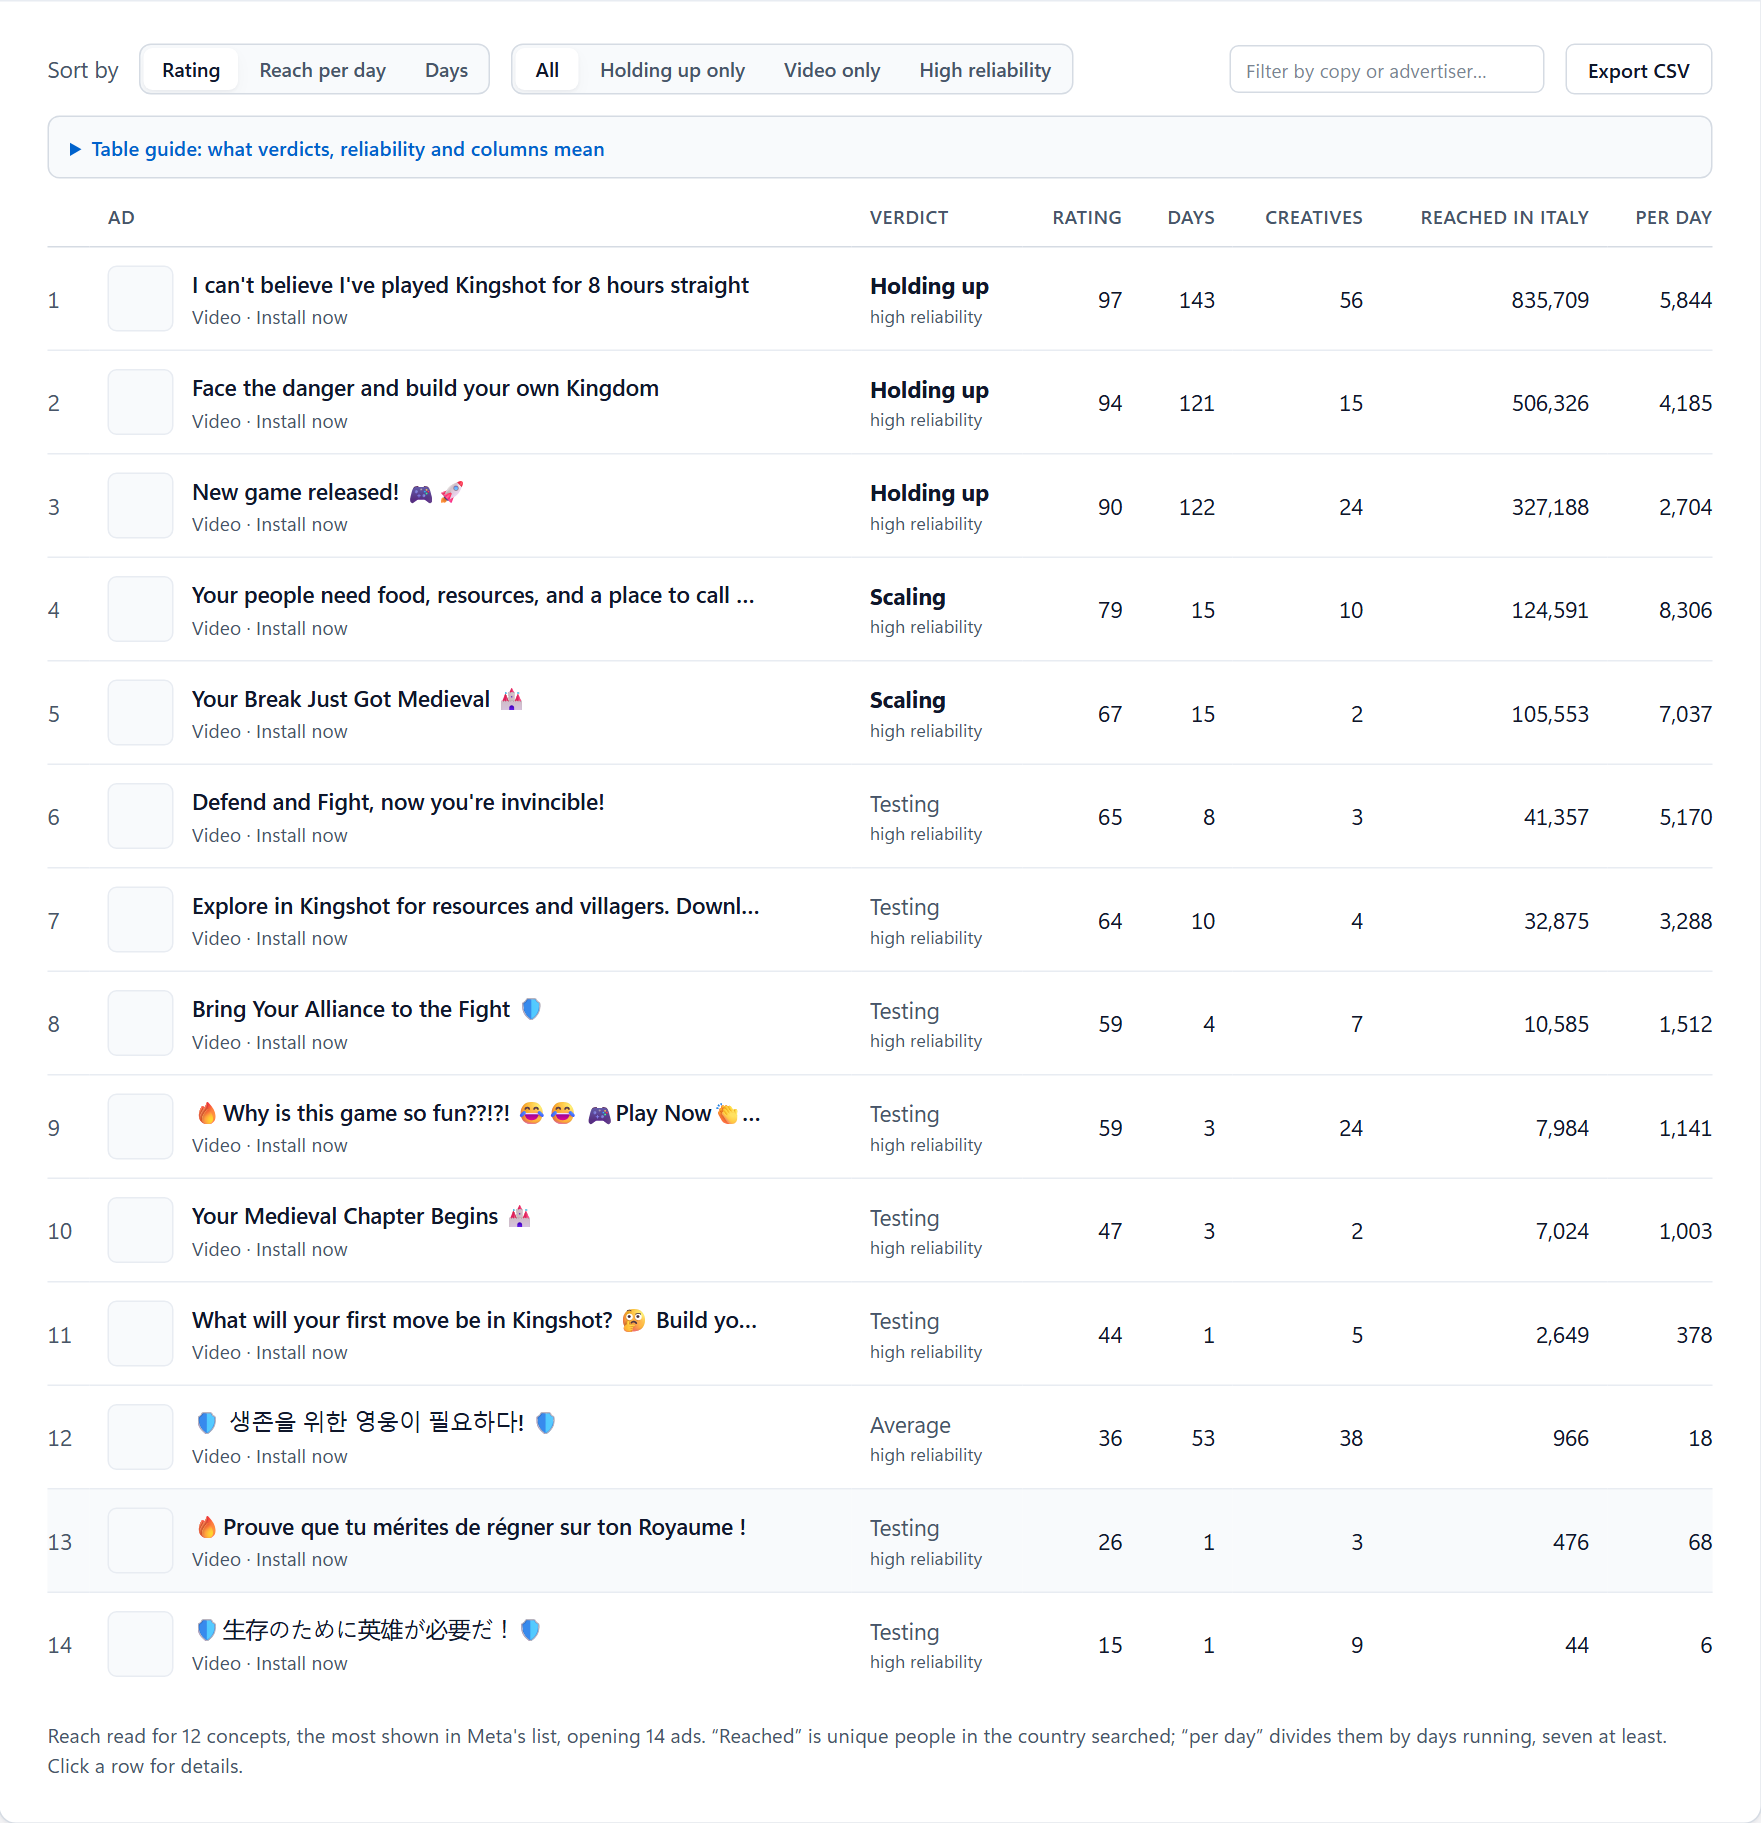
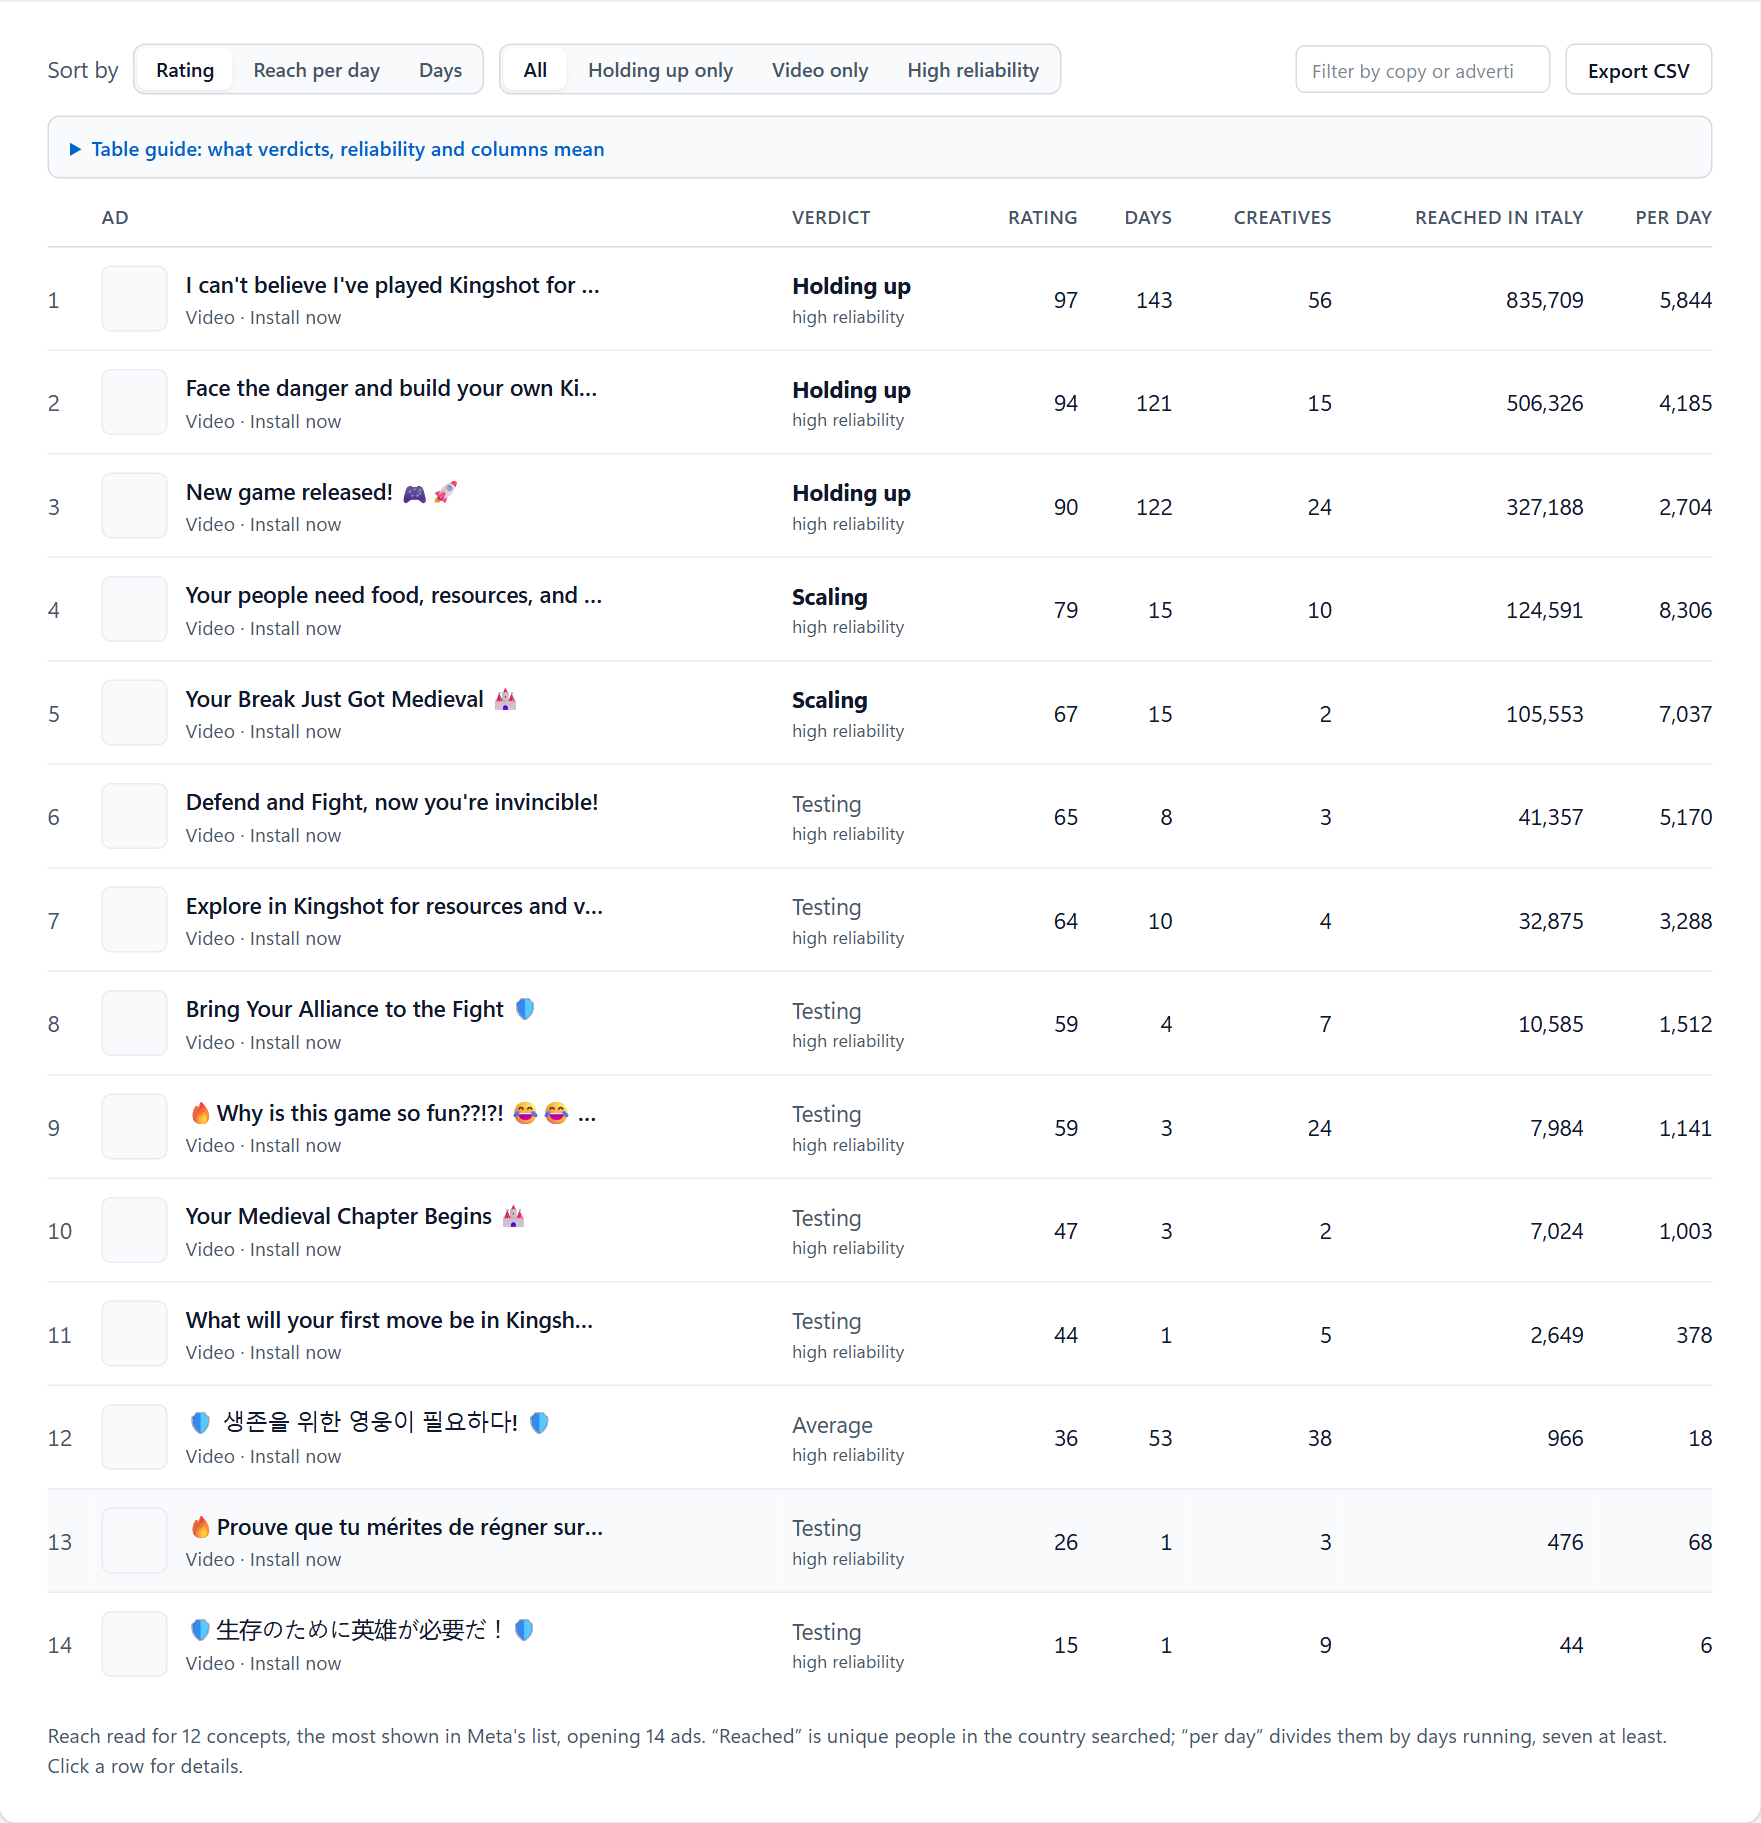
Link and web: clean config fallback, venv MCP paths, table/mobile CSS polish and all 422 tests green

diff --git a/src/ad_library_insights/web/static/app.css b/src/ad_library_insights/web/static/app.css
@@ -209,21 +209,24 @@ table.cmp td.num { font-variant-numeric: tabular-nums; }
 .rows li span:first-child { min-width: 0; overflow: hidden; text-overflow: ellipsis; white-space: nowrap; }
 
 /* ads table */
+.ads th, .ads td { padding-left: 8px; padding-right: 8px; }
+.ads th:first-child, .ads td:first-child { padding-left: 0; }
+.ads th:last-child, .ads td:last-child { padding-right: 0; }
 .ads td.rank { color: var(--muted); width: 28px; font-variant-numeric: tabular-nums; }
 .adcell { display: flex; align-items: center; gap: 12px; min-width: 0; }
 .thumb { width: 44px; height: 44px; border-radius: 6px; object-fit: cover; flex: none; background: var(--sunken); border: 1px solid var(--line-soft); }
 .adtext { min-width: 0; }
-.adtext div { overflow: hidden; text-overflow: ellipsis; white-space: nowrap; max-width: 380px; font-weight: 530; }
-.ads.mixed .adtext div, .ads.mixed .adtext small { max-width: 262px; }
-.adtext small { color: var(--muted); font-size: .86rem; display: block; overflow: hidden; text-overflow: ellipsis; white-space: nowrap; max-width: 400px; }
+.adtext div { overflow: hidden; text-overflow: ellipsis; white-space: nowrap; max-width: 280px; font-weight: 530; }
+.ads.mixed .adtext div, .ads.mixed .adtext small { max-width: 240px; }
+.adtext small { color: var(--muted); font-size: .86rem; display: block; overflow: hidden; text-overflow: ellipsis; white-space: nowrap; max-width: 300px; }
 .ads td.tier, .ads td.fmt { white-space: nowrap; }
 .v-scaling, .v-holding { font-weight: 650; }
 .v-review { color: var(--warn); font-weight: 650; }
 .v-testing, .v-average, .v-ended { color: var(--muted); }
 .rel { display: block; color: var(--muted); font-size: .8rem; }
-.sortbar { display: flex; align-items: center; gap: 10px 14px; margin-bottom: 14px; color: var(--muted); flex-wrap: wrap; }
+.sortbar { display: flex; align-items: center; gap: 8px 10px; margin-bottom: 14px; color: var(--muted); flex-wrap: wrap; }
 .sort-spacer { flex: 1; }
-.tbl-search { height: 32px; padding: 0 10px; border: 1px solid var(--line); border-radius: 6px; background: var(--surface); color: var(--text); font-size: .86rem; width: 210px; }
+.tbl-search { height: 32px; padding: 0 10px; border: 1px solid var(--line); border-radius: 6px; background: var(--surface); color: var(--text); font-size: .86rem; width: 170px; }
 .table-legend { margin-bottom: 16px; background: var(--sunken); border: 1px solid var(--line); border-radius: 8px; padding: 10px 14px; }
 .table-legend summary { cursor: pointer; font-size: .9rem; font-weight: 640; color: var(--accent); outline: none; }
 .leg-grid { display: grid; grid-template-columns: repeat(3, minmax(0, 1fr)); gap: 16px; margin-top: 12px; padding-top: 12px; border-top: 1px solid var(--line-soft); font-size: .86rem; }
@@ -239,7 +242,7 @@ table.cmp td.num { font-variant-numeric: tabular-nums; }
 .tut-tabs button[aria-selected="true"] { background: var(--surface); color: var(--accent); font-weight: 650; box-shadow: var(--shadow-sm); }
 .tut-intro { margin-top: 14px; padding: 12px 16px; background: var(--accent-wash); border: 1px solid var(--accent-border); border-radius: 8px; font-size: .9rem; color: var(--text); line-height: 1.48; }
 .tut-shot { margin-top: 12px; padding: 12px; background: var(--sunken); border: 1px solid var(--line); border-radius: 8px; }
-.tut-shot img { display: block; width: 100%; max-height: 290px; object-fit: cover; object-position: top center; border: 1px solid var(--line-soft); border-radius: 6px; background: var(--surface); }
+.tut-shot img { display: block; width: 100%; max-height: 210px; object-fit: contain; object-position: top center; border: 1px solid var(--line-soft); border-radius: 6px; background: var(--surface); }
 .tut-shot-pair { display: grid; grid-template-columns: 1.15fr .85fr; gap: 10px; }
 .tut-shot figcaption { margin-top: 8px; font-size: .81rem; color: var(--muted); font-weight: 540; line-height: 1.4; }
 .tut-cards { display: grid; grid-template-columns: 1fr 1fr; gap: 12px; margin-top: 14px; }
@@ -360,7 +363,7 @@ table.cmp td.num { font-variant-numeric: tabular-nums; }
 .vis-pill { font-size: .76rem; font-weight: 640; padding: 2px 8px; border-radius: 5px; }
 .vis-pill.ok { background: var(--ok-wash); color: var(--ok); }
 .vis-score { display: flex; align-items: baseline; justify-content: space-between; gap: 8px; }
-.vis-score strong { font-size: 1.65rem; font-weight: 700; letter-spacing: -.02em; font-variant-numeric: tabular-nums; }
+.vis-score strong { font-size: 1.65rem; font-weight: 700; letter-spacing: -.02em; font-variant-numeric: tabular-nums; white-space: nowrap; }
 .vis-score small { font-size: .85rem; font-weight: 500; color: var(--muted); }
 .vis-parts { display: flex; justify-content: space-between; gap: 8px; font-size: .8rem; color: var(--muted); margin-top: 6px; }
 .vis-lenses { display: grid; grid-template-columns: 1fr 1fr; gap: 8px; }
@@ -408,7 +411,7 @@ table.cmp td.num { font-variant-numeric: tabular-nums; }
 .way-label { font-size: .85rem; color: var(--muted); font-weight: 560; }
 .way-how { margin-top: 16px; }
 .files { margin: 14px 0 0; padding-left: 18px; font-family: Consolas, "Cascadia Mono", ui-monospace, monospace; font-size: .87rem; overflow-wrap: anywhere; }
-.how-step { color: var(--accent); font-size: .82rem; font-weight: 650; text-transform: uppercase; letter-spacing: .04em; }
+.how-step { color: var(--accent); font-size: .82rem; font-weight: 650; letter-spacing: .02em; }
 .how-title { margin-top: 4px; }
 
 @media (max-width: 960px) {

diff --git a/src/ad_library_insights/web/static/app.js b/src/ad_library_insights/web/static/app.js
@@ -218,7 +218,7 @@ function levelVisual(level) {
   }
   const { p, c, margin, lowCut, highCut, round1, roas } = simNumbers();
   return `<div class="lvl-vis">
-    <div class="vis-top"><span class="vis-title">${esc(t('lv.v3.badge'))}</span><button class="linklike" data-action="project" style="font-size:.78rem">${esc(t('lv.v3.sim.edit'))}</button></div>
+    <div class="vis-top"><span class="vis-title">${esc(t('lv.v3.badge'))}</span><button class="linklike" data-action="lv-project" style="font-size:.78rem">${esc(t('lv.v3.sim.edit'))}</button></div>
     <div class="sim-inputs">
       <label class="sim-field"><span>${esc(t('lv.v3.sim.price'))}</span><input type="number" min="1" step="1" data-sim="price" value="${esc(p)}"></label>
       <label class="sim-field"><span>${esc(t('lv.v3.sim.cost'))}</span><input type="number" min="0" step="1" data-sim="cost" value="${esc(c)}"></label>
@@ -328,8 +328,8 @@ function renderWay() {
     <details class="lvl-details multi-cli">
       <summary>${esc(t('way.multi.title'))}</summary>
       <div class="multi-grid">
-        <div class="multi-box"><strong>${esc(t('way.multi.ag.t'))}</strong><span>${esc(t('way.multi.ag.d'))}</span><code>"ad-library-insights": { "command": "python", "args": ["-m", "ad_library_insights"] }</code></div>
-        <div class="multi-box"><strong>${esc(t('way.multi.cx.t'))}</strong><span>${esc(t('way.multi.cx.d'))}</span><code>codex mcp add ad-library-insights -- python -m ad_library_insights</code></div>
+        <div class="multi-box"><strong>${esc(t('way.multi.ag.t'))}</strong><span>${esc(t('way.multi.ag.d'))}</span><code>${esc((L.quick && L.quick.antigravity_entry) || '{"ad-library-insights": {"command": "python", "args": ["-m", "ad_library_insights"]}}')}</code></div>
+        <div class="multi-box"><strong>${esc(t('way.multi.cx.t'))}</strong><span>${esc(t('way.multi.cx.d'))}</span><code>${esc((L.quick && L.quick.codex_command) || 'codex mcp add ad-library-insights -- python -m ad_library_insights')}</code></div>
       </div>
     </details>
     <p class="way-how"><button class="linklike" data-action="how-open">${esc(t('way.how'))}</button></p>`;
@@ -1171,6 +1171,7 @@ const ACTIONS = {
   deep(value) { S.deep = Number(value); renderSearch(); renderOverlay(); refreshEstimate(); },
   submit, guide() { S.overlay = { type: 'guide' }; renderOverlay(); },
   project() { openProject(false); },
+  'lv-project'() { openProject(false); },
   'save-project': saveProject, 'confirm-go': launch, brief() { makeBrief(); },
   'brief-ads'(value) { makeBrief({ ads: Number(value) }); },
   'choose-page'(value) { gate({ mode: 'company', page_id: value }); },

diff --git a/src/ad_library_insights/link.py b/src/ad_library_insights/link.py
@@ -9,7 +9,6 @@ no shell, and copies local files.
 from __future__ import annotations
 
 import json
-import os
 import shlex
 import shutil
 import subprocess
@@ -44,6 +43,7 @@ class Settings:
     add_timeout: float = ADD_TIMEOUT
     agents_source: Path | None = None
     agents_target: Path | None = None
+    claude_config: Path | None = None
 
     def __post_init__(self) -> None:
         if self.agents_source is None:
@@ -53,6 +53,11 @@ class Settings:
                 self.agents_source = self.skills_source.parent / ".claude" / "agents"
         if self.agents_target is None:
             self.agents_target = self.skills_target.parent / "agents"
+        if self.claude_config is None:
+            if self.skills_source == default_skills_source():
+                self.claude_config = Path.home() / ".claude.json"
+            else:
+                self.claude_config = self.skills_target.parent / ".claude.json"
 
 
 def find_claude() -> str | None:
@@ -91,35 +96,40 @@ def _run(args: list[str], timeout: float) -> subprocess.CompletedProcess:
     return subprocess.CompletedProcess(args, proc.returncode, stdout, stderr)
 
 
-def _config_has_server() -> bool | None:
-    """Fallback check in ``~/.claude.json`` when ``claude mcp list`` times out on other servers."""
-    if "FAKE_CLAUDE_STATE" in os.environ:
-        return None
-    config_path = Path.home() / ".claude.json"
-    if not config_path.is_file():
-        return None
+def _config_has_server(config_path: Path | None = None) -> bool:
+    """Fallback check in ``.claude.json`` (user or project scope) when ``claude mcp list`` is unavailable."""
+    path = config_path if config_path is not None else (Path.home() / ".claude.json")
+    if not path.is_file():
+        return False
     try:
-        data = json.loads(config_path.read_text(encoding="utf-8"))
+        data = json.loads(path.read_text(encoding="utf-8"))
     except (OSError, ValueError):
-        return None
-    servers = data.get("mcpServers") if isinstance(data, dict) else None
-    if isinstance(servers, dict):
-        return NAME in servers
-    return None
+        return False
+    if not isinstance(data, dict):
+        return False
+    servers = data.get("mcpServers")
+    if isinstance(servers, dict) and NAME in servers:
+        return True
+    projects = data.get("projects")
+    if isinstance(projects, dict):
+        for proj in projects.values():
+            if isinstance(proj, dict):
+                proj_servers = proj.get("mcpServers")
+                if isinstance(proj_servers, dict) and NAME in proj_servers:
+                    return True
+    return False
 
 
-def mcp_state(claude: str, timeout: float = MCP_TIMEOUT) -> str:
+def mcp_state(claude: str, timeout: float = MCP_TIMEOUT, config_path: Path | None = None) -> str:
     """``connected`` (listed), ``missing`` (not listed) or ``unknown`` (the command failed or was slow)."""
     try:
         done = _run([claude, "mcp", "list"], timeout)
     except (OSError, subprocess.SubprocessError):
-        configured = _config_has_server()
-        return "connected" if configured is True else "missing" if configured is False else "unknown"
+        return "connected" if _config_has_server(config_path) else "unknown"
     if done.returncode != 0:
-        configured = _config_has_server()
-        return "connected" if configured is True else "missing" if configured is False else "unknown"
+        return "connected" if _config_has_server(config_path) else "unknown"
     listed = any(line.strip().startswith(f"{NAME}:") for line in done.stdout.splitlines())
-    return "connected" if listed else "missing"
+    return "connected" if (listed or _config_has_server(config_path)) else "missing"
 
 
 # --- skills and specialist sub-agents -------------------------------------------------------
@@ -177,13 +187,15 @@ def status(settings: Settings) -> dict:
     return {"claude": bool(claude),
             "skills": skills_state(settings.skills_source, settings.skills_target,
                                    settings.agents_source, settings.agents_target),
-            "command": shown_command(settings), "skills_folder": SHOWN_SKILLS_FOLDER}
+            "command": shown_command(settings), "skills_folder": SHOWN_SKILLS_FOLDER,
+            "codex_command": codex_shown_command(settings.python),
+            "antigravity_entry": json.dumps(antigravity_mcp_entry(settings.python))}
 
 
 def mcp_status(settings: Settings) -> dict:
     """The slow part: asks Claude Code which servers it knows."""
     claude = find_claude()
-    return {"state": mcp_state(claude, settings.mcp_timeout) if claude else "no_claude"}
+    return {"state": mcp_state(claude, settings.mcp_timeout, settings.claude_config) if claude else "no_claude"}
 
 
 def connect(settings: Settings, overwrite_skills: bool = False) -> dict:
@@ -191,7 +203,7 @@ def connect(settings: Settings, overwrite_skills: bool = False) -> dict:
     claude = find_claude()
     if not claude:
         return {"ok": False, "error": "claude_missing"}
-    if mcp_state(claude, settings.mcp_timeout) == "connected":
+    if mcp_state(claude, settings.mcp_timeout, settings.claude_config) == "connected":
         server = "already"
     else:
         try:

diff --git a/tests/test_link.py b/tests/test_link.py
@@ -262,3 +262,18 @@ def test_codex_and_antigravity_helpers_build_commands_and_copy_skills(tmp_path):
     (src / "sk" / "SKILL.md").write_text("# skill\n", encoding="utf-8")
     copied = link.install_to_folder(src, dst)
     assert copied == {"copied": 1, "kept": []} and (dst / "sk" / "SKILL.md").is_file()
+
+
+def test_config_fallback_detects_user_and_project_scoped_servers(client, fake):
+    fake.monkeypatch.setenv("FAKE_CLAUDE_MODE", "list_fail")
+    cfg = fake.settings.claude_config
+    assert cfg is not None and not cfg.exists()
+    assert client.get("/api/link/mcp").json() == {"state": "unknown"}
+
+    cfg.write_text(json.dumps({"mcpServers": {"ad-library-insights": {"command": "python"}}}), encoding="utf-8")
+    assert client.get("/api/link/mcp").json() == {"state": "connected"}
+
+    cfg.write_text(json.dumps({
+        "projects": {"C:/repo": {"mcpServers": {"ad-library-insights": {"command": "python"}}}}
+    }), encoding="utf-8")
+    assert client.get("/api/link/mcp").json() == {"state": "connected"}
